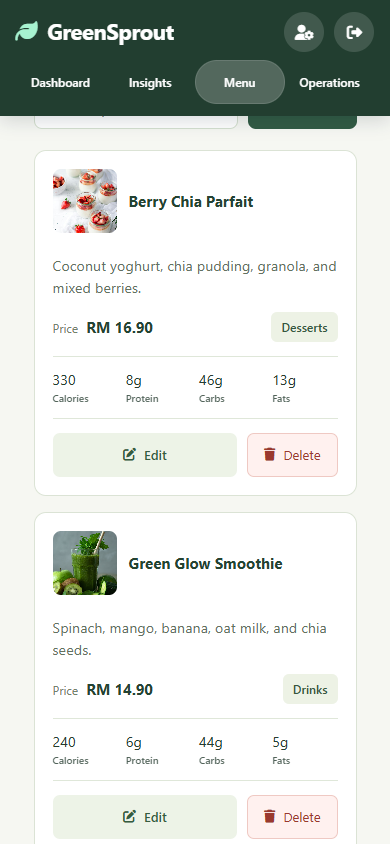
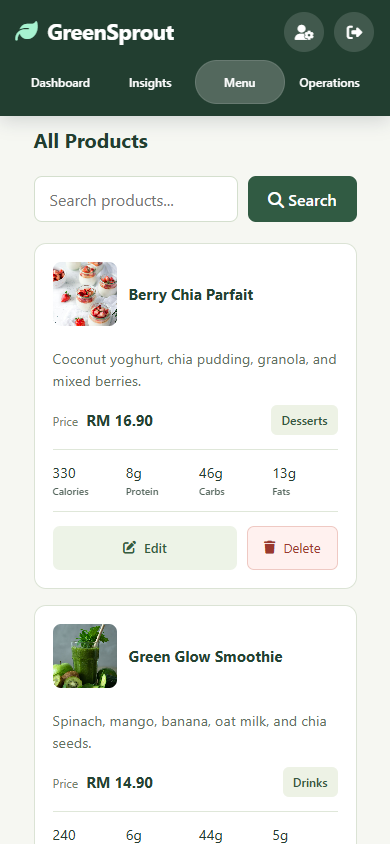
Show customer checkout and mobile admin in screenshot gallery

diff --git a/README.md b/README.md
@@ -34,11 +34,25 @@ Start with [the menu page](public/menu.html), [checkout handler](public/create_o
 
 ## Screenshots
 
+### Menu
+
 ![Customer menu](docs/screenshots/menu.png)
+
+| Login | Checkout |
+| --- | --- |
+| [![Login](docs/screenshots/login.png)](docs/screenshots/login.png) | [![Demo checkout](docs/screenshots/checkout.png)](docs/screenshots/checkout.png) |
+
+### Admin dashboard
 
 ![Admin dashboard](docs/screenshots/admin.png)
 
-[Login](docs/screenshots/login.png) · [About](docs/screenshots/about.png) · [Mobile admin](docs/screenshots/admin-mobile.png)
+<table>
+  <tr><th width="65%">About</th><th width="35%">Mobile admin</th></tr>
+  <tr>
+    <td align="center"><a href="docs/screenshots/about.png"><img src="docs/screenshots/about.png" alt="About GreenSprout" width="640"></a></td>
+    <td align="center"><a href="docs/screenshots/admin-mobile.png"><img src="docs/screenshots/admin-mobile.png" alt="Product management on mobile" width="180"></a></td>
+  </tr>
+</table>
 
 ## Run locally
 
